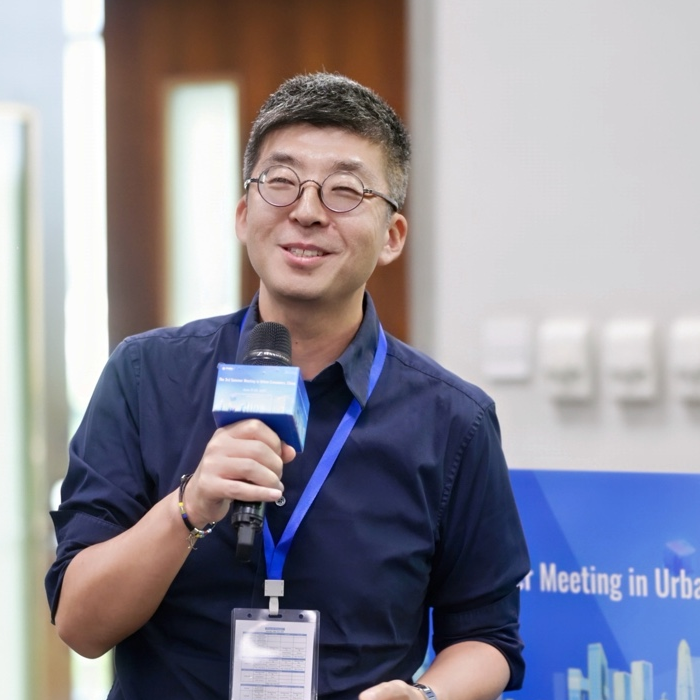
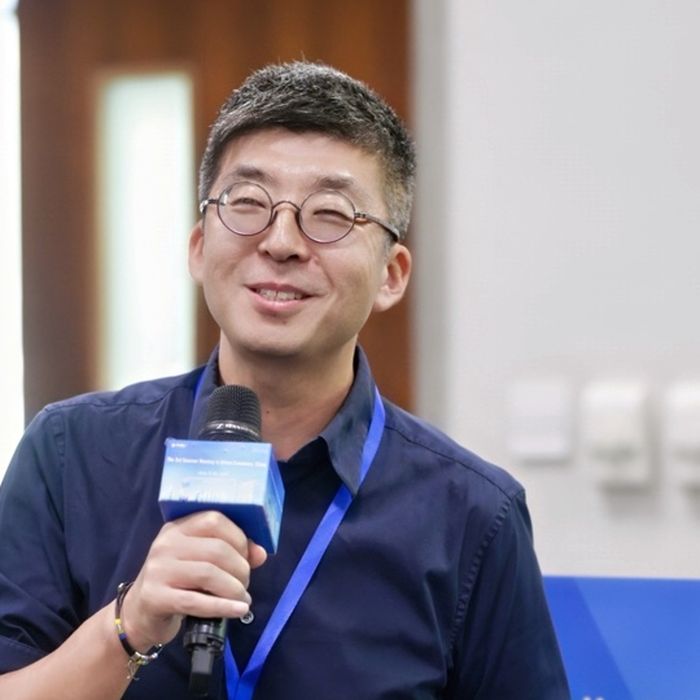
Refine homepage styling

diff --git a/_pages/about.md b/_pages/about.md
@@ -19,11 +19,10 @@ I serve on the Editorial Board of the *Journal of Urban Economics* and the *Jour
 
 ### Research Themes
 
-**Chinese Cities** · **Transportation** · **Digital Economy** · **Firms & Innovation**
+Chinese Cities · Transportation · Digital Economy · Firms & Innovation
 
 ### Data
 
-**China's Commuting-Based Metropolitan Areas**
-
+China's Commuting-Based Metropolitan Areas
 [JUE Paper](https://www.sciencedirect.com/science/article/pii/S0094119024000858) · [Lists of Metro Areas](https://www.dropbox.com/scl/fi/eob9s7peghuh2987p9nwa/ClusterLists.zip?rlkey=jyyc2h188q4101thvux58yqe6&dl=0)
 
